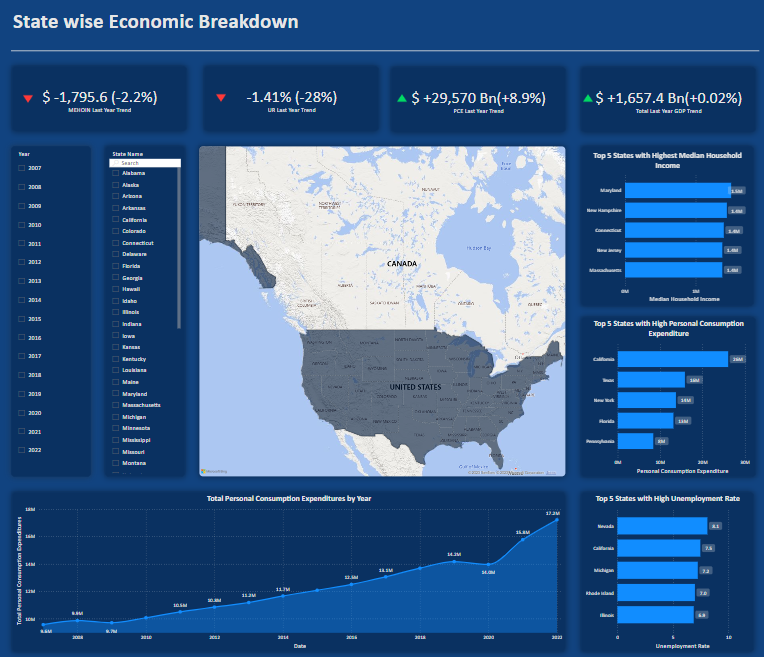
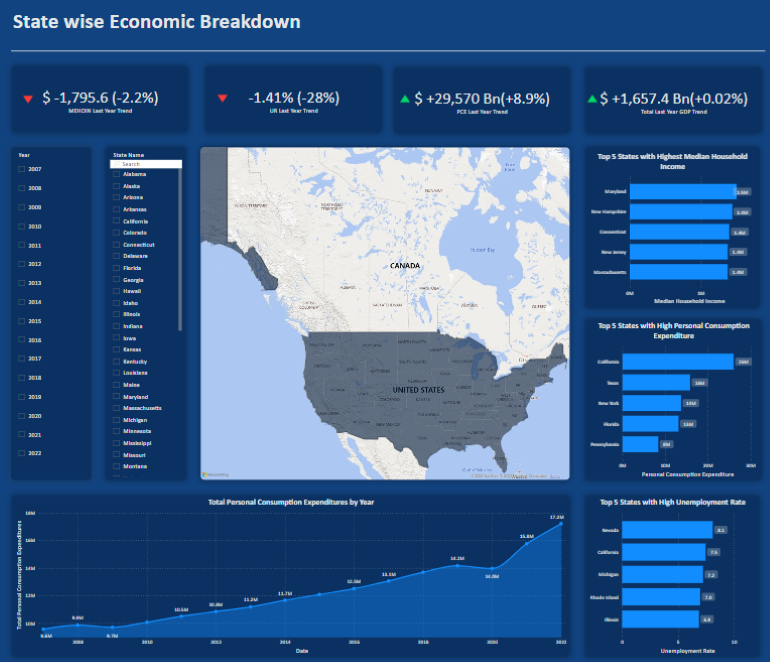
adjusting images size and re-adding landing page

diff --git a/README.md b/README.md
@@ -92,6 +92,9 @@ ETL runtime duration: 10 minutes
 
 ### Dashboard Slides
 
+| Landing Page |
+| -----------------|
+| ![landing_page](./readme/pbi/landing_page.png)|
 
 | National Overview |
 | -----------------|
